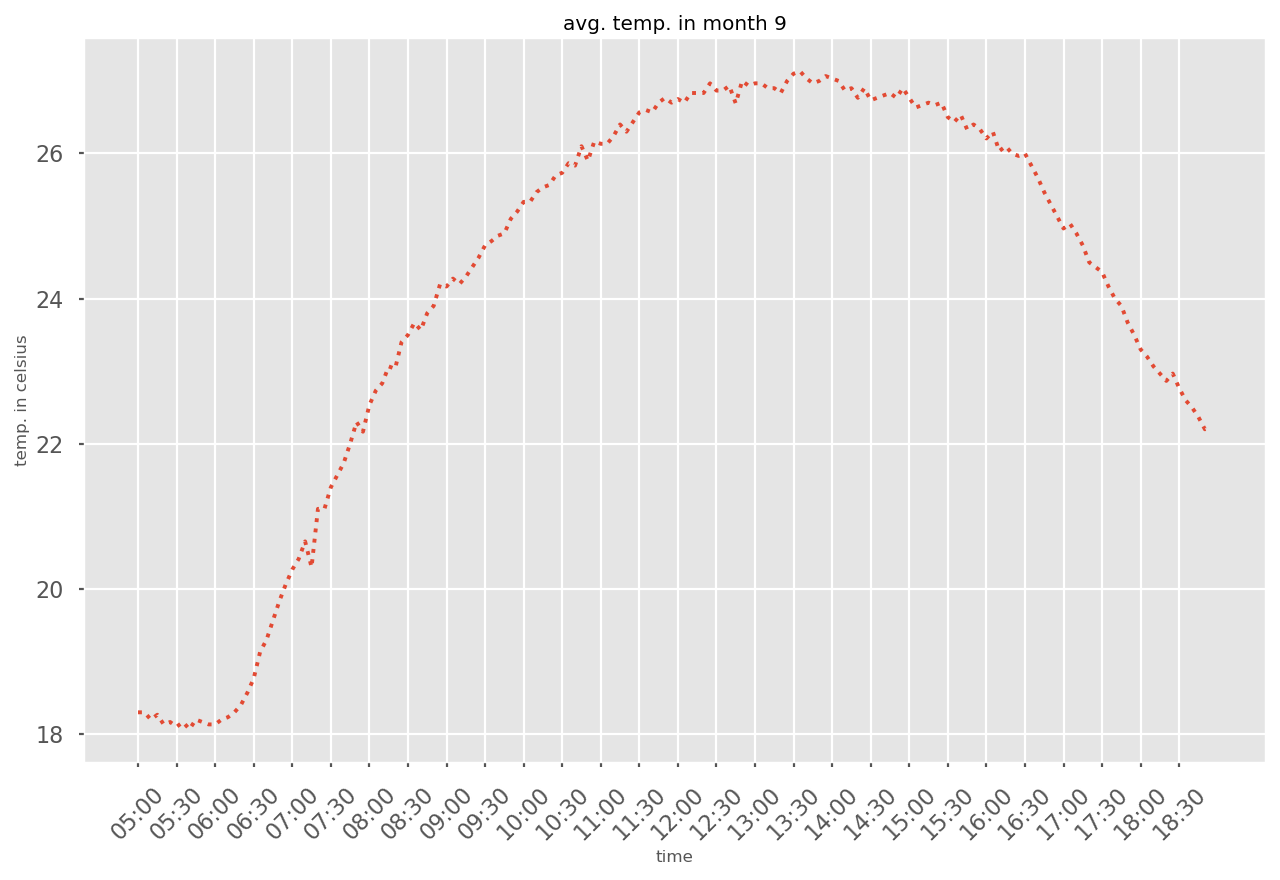
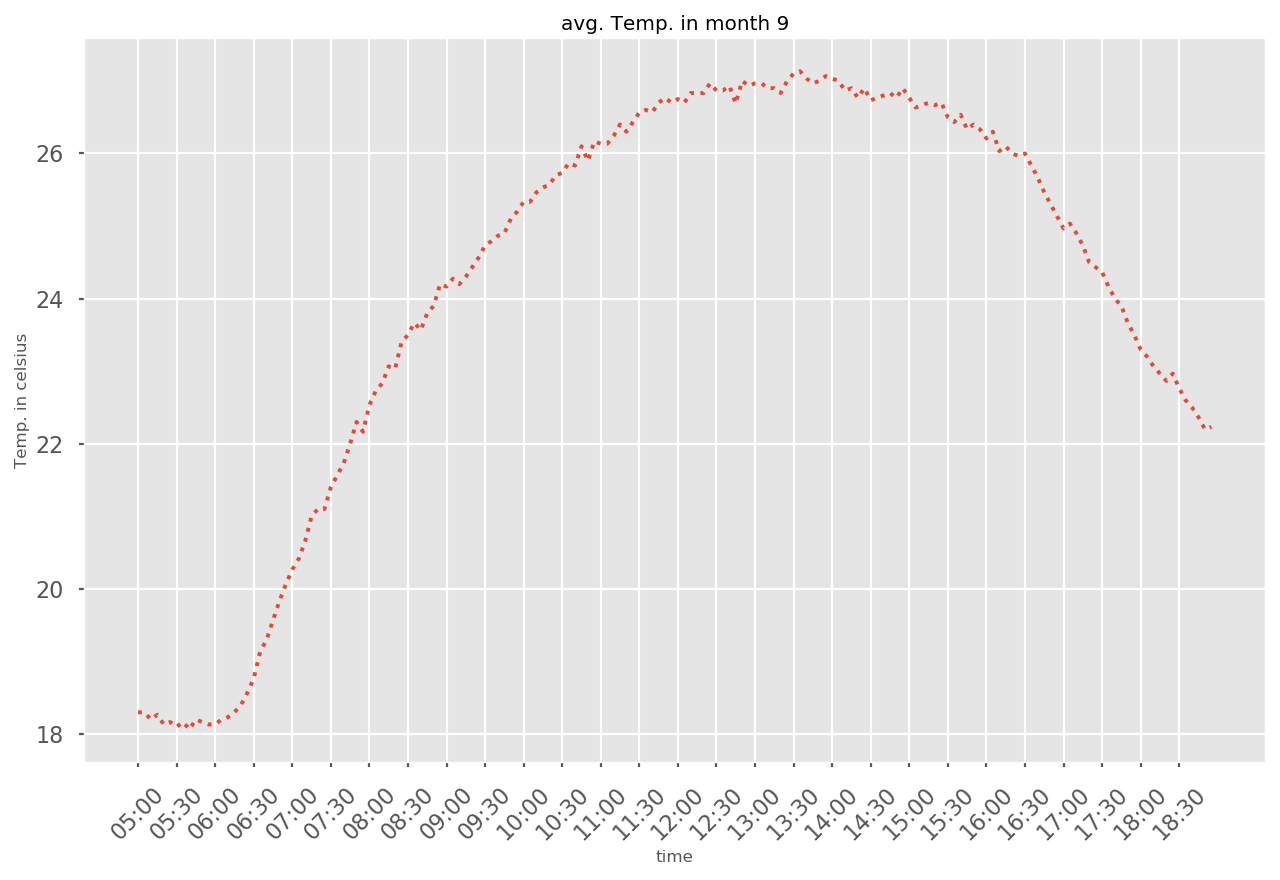
temp 0 detector

diff --git a/data.py b/data.py
@@ -135,10 +135,10 @@ class Data:
                 avg_ghi.append(tmp_avg[1])
                 var_ghi.append(tmp_var[1])
         #plot data
-        plot_time_avg(tick_times, times, avg_temp, 'time', 'temp. in celsius', 'avg. temp. in month ' + str(month))
-        plot_time_avg(tick_times, times, var_temp, 'time', 'Variance temp.','var. temp. in month ' + str(month))
-        plot_time_avg(tick_times, times, avg_ghi, 'time', 'GHI in W/m^2', 'avg. ghi in month ' + str(month))
-        plot_time_avg(tick_times, times, var_ghi, 'time', 'Variance GHI', 'var. ghi in month ' + str(month))
+        plot_time_avg(tick_times, times, avg_temp, 'time', 'Temp. in celsius', 'avg. Temp. in month ' + str(month))
+        plot_time_avg(tick_times, times, var_temp, 'time', 'Variance temp.','var. Temp. in month ' + str(month))
+        plot_time_avg(tick_times, times, avg_ghi, 'time', 'GHI in W/m^2', 'avg. GHI in month ' + str(month))
+        plot_time_avg(tick_times, times, var_ghi, 'time', 'Variance GHI', 'var. GHI in month ' + str(month))
 
 
     def plot_day(self, day, month, start, end, step):
@@ -218,12 +218,19 @@ class Data:
 
                 self.process_csv(path + files[-1])  # process csv
                 tmp_df = pd.read_csv(path + files[-1], sep=',', header=0, usecols=[2, 3, 4, 5])  # load csv
+                tmp_temp = None
 
                 for row in tmp_df.iterrows():
                     if( int(row[1].values[1][6:8]) == 0 and int(row[1].values[1][3:5])%step == 0 and int(row[1].values[1][0:2]) >= start and int(row[1].values[1][0:2]) < end):
                         df[index][0:8] = np.array([row[1].values[0][0:2], row[1].values[0][3:5], row[1].values[0][6:8],
                                                    row[1].values[1][0:2], row[1].values[1][3:5], row[1].values[1][6:8],
                                                    row[1].values[2], row[1].values[3]])  # set csv data to df
+
+                        if(df[index][6] == 0):
+                            df[index][6] = tmp_temp
+                        else:
+                            tmp_temp = df[index][6]
+
                         index += 1
                         # print(index)
         # # YEAR, MONTH, DAY, HOURS, MINUTES, SECONDS, TEMP, IRRADIANCE, IMAGE
@@ -300,7 +307,7 @@ d = Data()
 # df = d.build_df(2)
 # d.images_information()
 # d.plot_per_month(9, 5, 19)
-d.plot_per_month(10, 5, 19)
+# d.plot_per_month(9, 5, 19, 5)
 # d.plot_day('05', '09', 5 , 19)
 d.plot_day('07', '09', 5, 19, 2)
 # d.plot_day('05', '10', 5 , 19)
